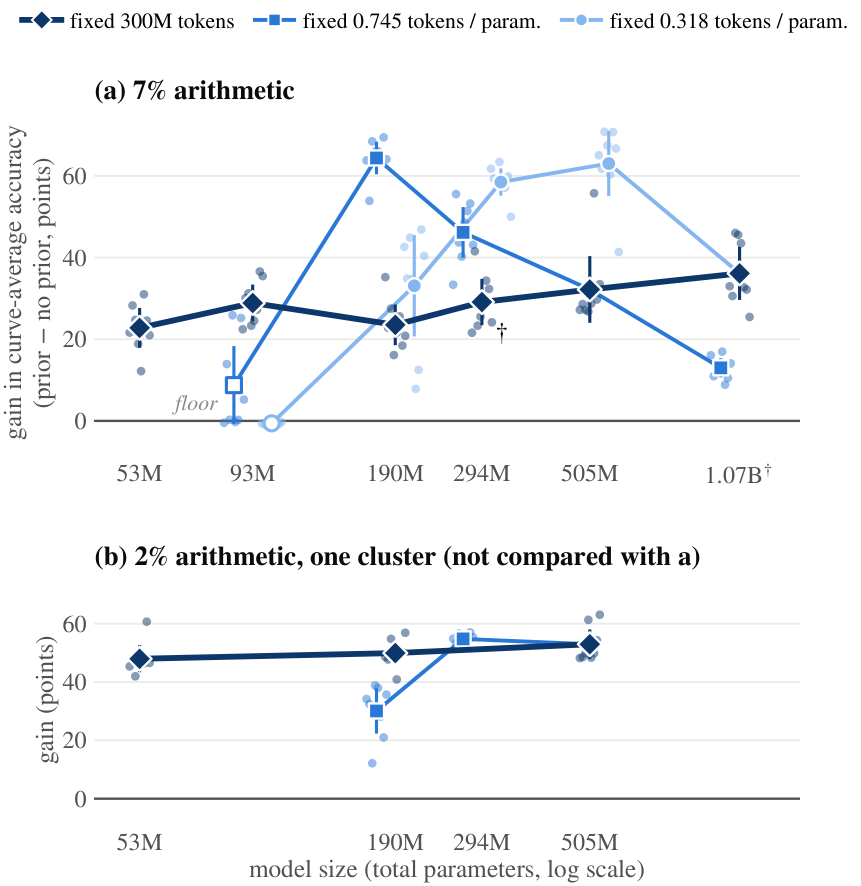
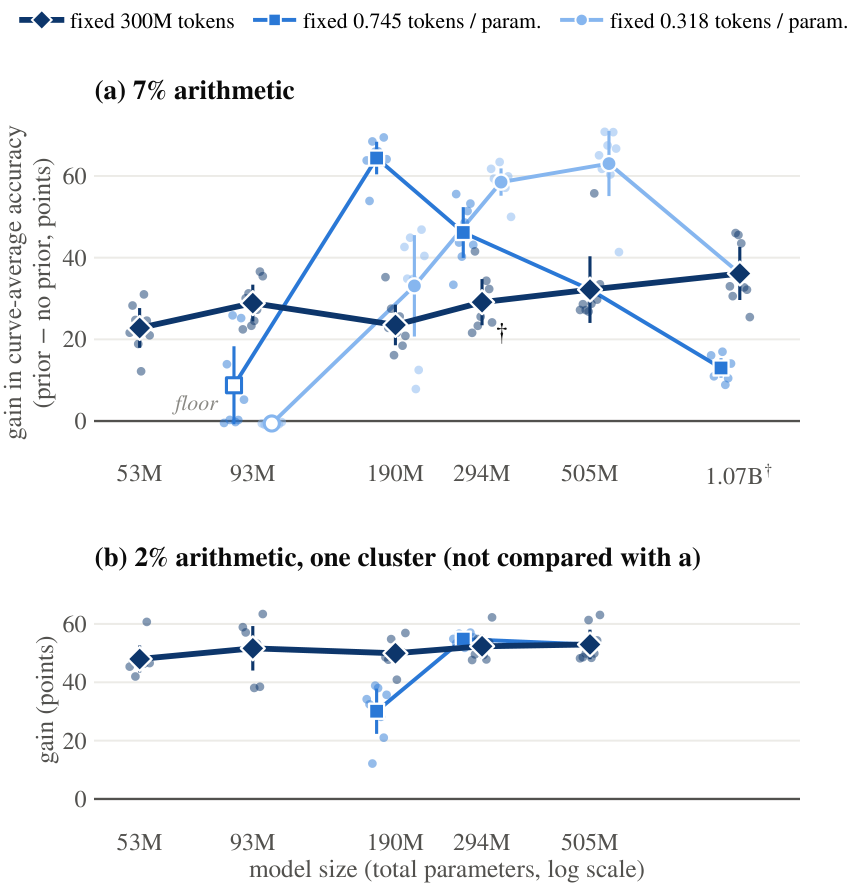
Figure 3: five sizes in the 2% panel (F108); caption says what it finds; matches Overleaf d262a6b

diff --git a/index.html b/index.html
@@ -531,7 +531,7 @@ table.dom td.n{font-family:var(--font-body);font-size:.86rem;font-variant-numeri
   </figure>
   <figure class="paper narrow" style="margin-top:18px">
     <div class="plate"><img src="media/fig3_size.png" alt="Paper Figure 3: gain of the helix prior against model size with 300M tokens, 0.745 tokens per parameter or 0.318 tokens per parameter (7% arithmetic), and with 2% arithmetic in its own panel, every seed shown as a dot"></div>
-    <figcaption><b>Paper Figure 3. How the gain changes with model size depends on what is held fixed.</b> Gain of the helix prior (mean of 8 paired seeds with 95% interval; dots: seeds).
+    <figcaption><b>Paper Figure 3. How the gain changes with model size depends on what is held fixed.</b> Gain of the helix prior (mean of 8 paired seeds with 95% interval; dots: seeds). Bottom: with 2% arithmetic and 300M tokens on one cluster, the prior adds 48.0 to 53.0 points at each of five sizes from 53M to 505M (8 of 8 seeds at each size). A pre-registered test finds the gain rising with log size, by 1.27 points per e-fold of parameters; this is a partial confirmation, because three of the five sizes were seen before the test, and the rise above 190M comes from the model without the prior getting weaker.
       <span class="chips"><span class="chip">pre-registered</span></span></figcaption>
   </figure>
   <p class="tnote">The two results fit together because the gain varies mainly with the number of training tokens: within one size it first rises and then falls, peaking roughly between 70M and 130M tokens with 7% arithmetic, and with more tokens the model without a prior catches up.</p>
@@ -1329,7 +1329,7 @@ load().then(() => {
   let w = window.innerWidth; window.addEventListener("resize", () => { if (Math.abs(window.innerWidth - w) > 8) { w = window.innerWidth; rebuildAll(); } });
   matchMedia("(prefers-color-scheme: dark)").addEventListener?.("change", rebuildAll);
   new MutationObserver(rebuildAll).observe(document.documentElement, { attributes: true, attributeFilter: ["data-theme"] });
-  $("#built").textContent = "Page version 2026-11-20 · matches the paper draft v2 (Overleaf 3298015).";
+  $("#built").textContent = "Page version 2026-11-22 · matches the paper draft v2 (Overleaf d262a6b).";
 }).catch(err => { $("#load-error").hidden = false; console.error(err); });
 })();
 </script>
